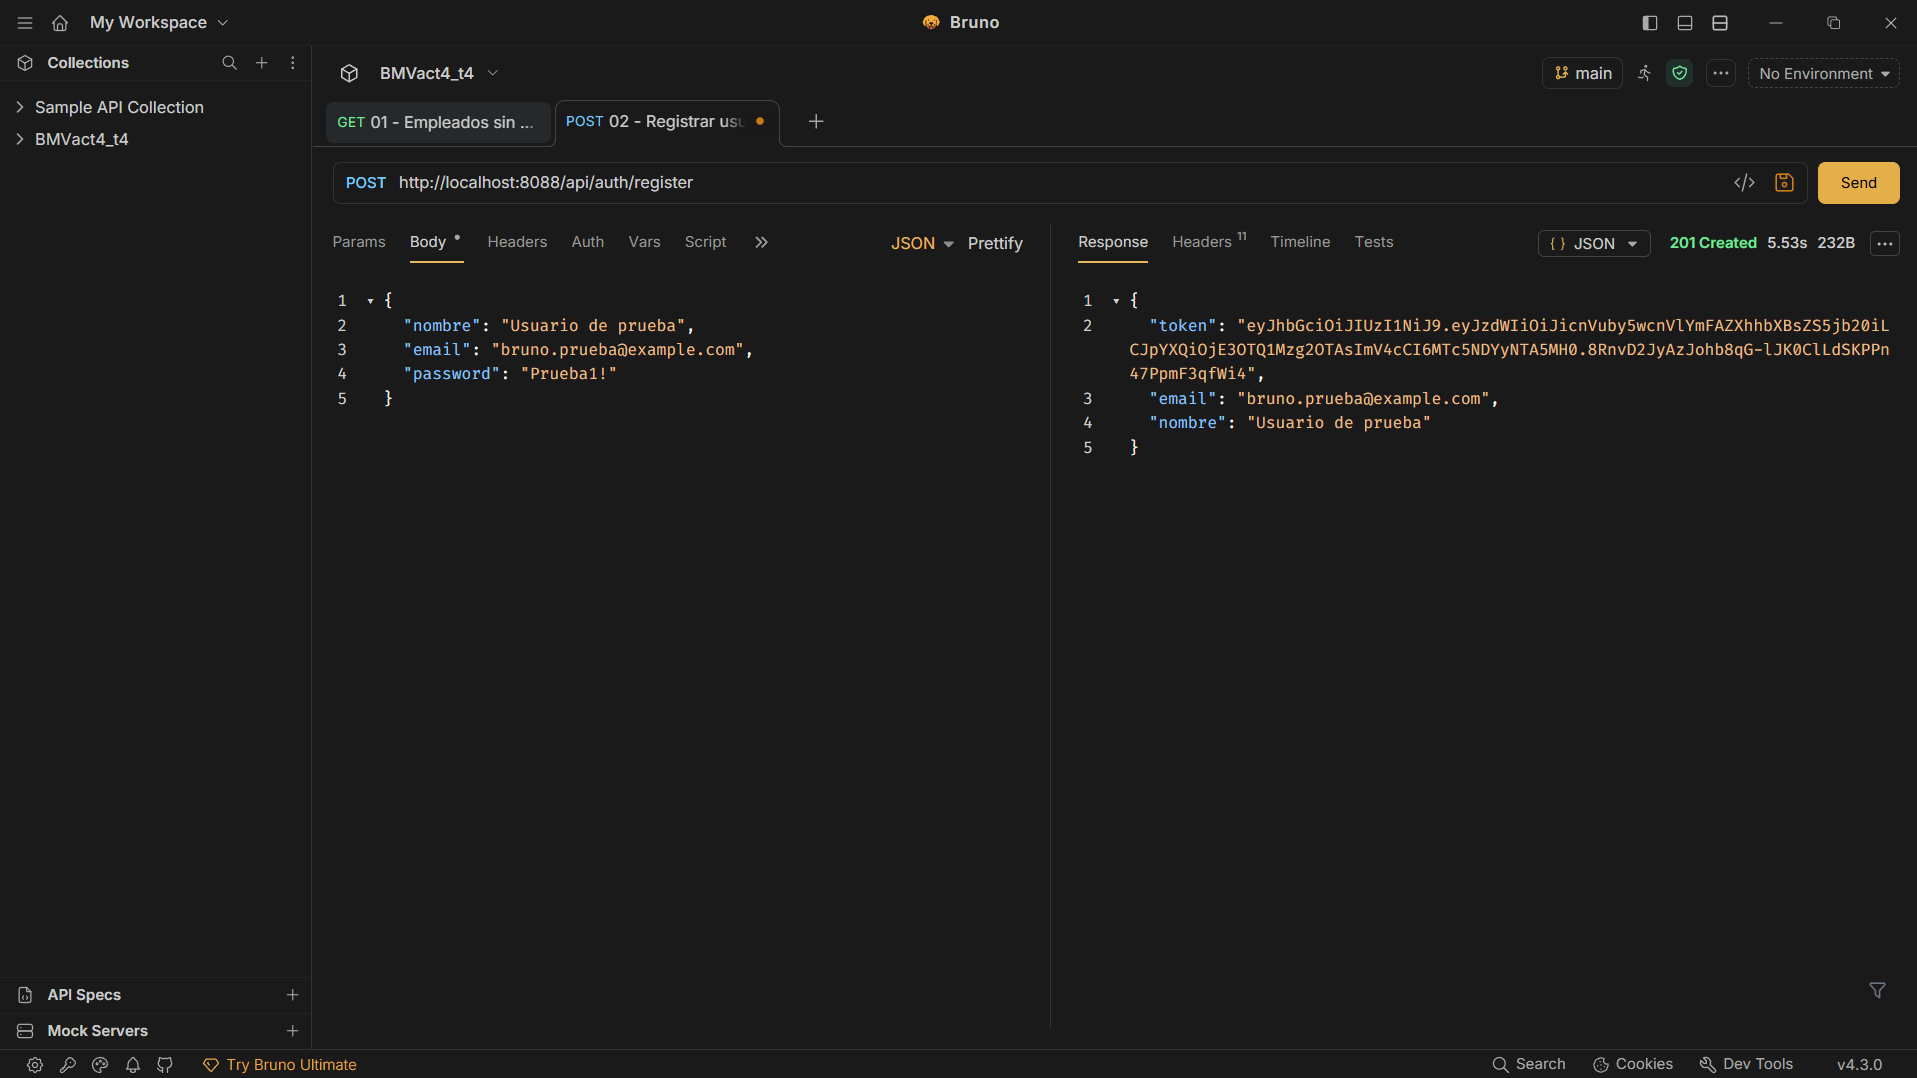
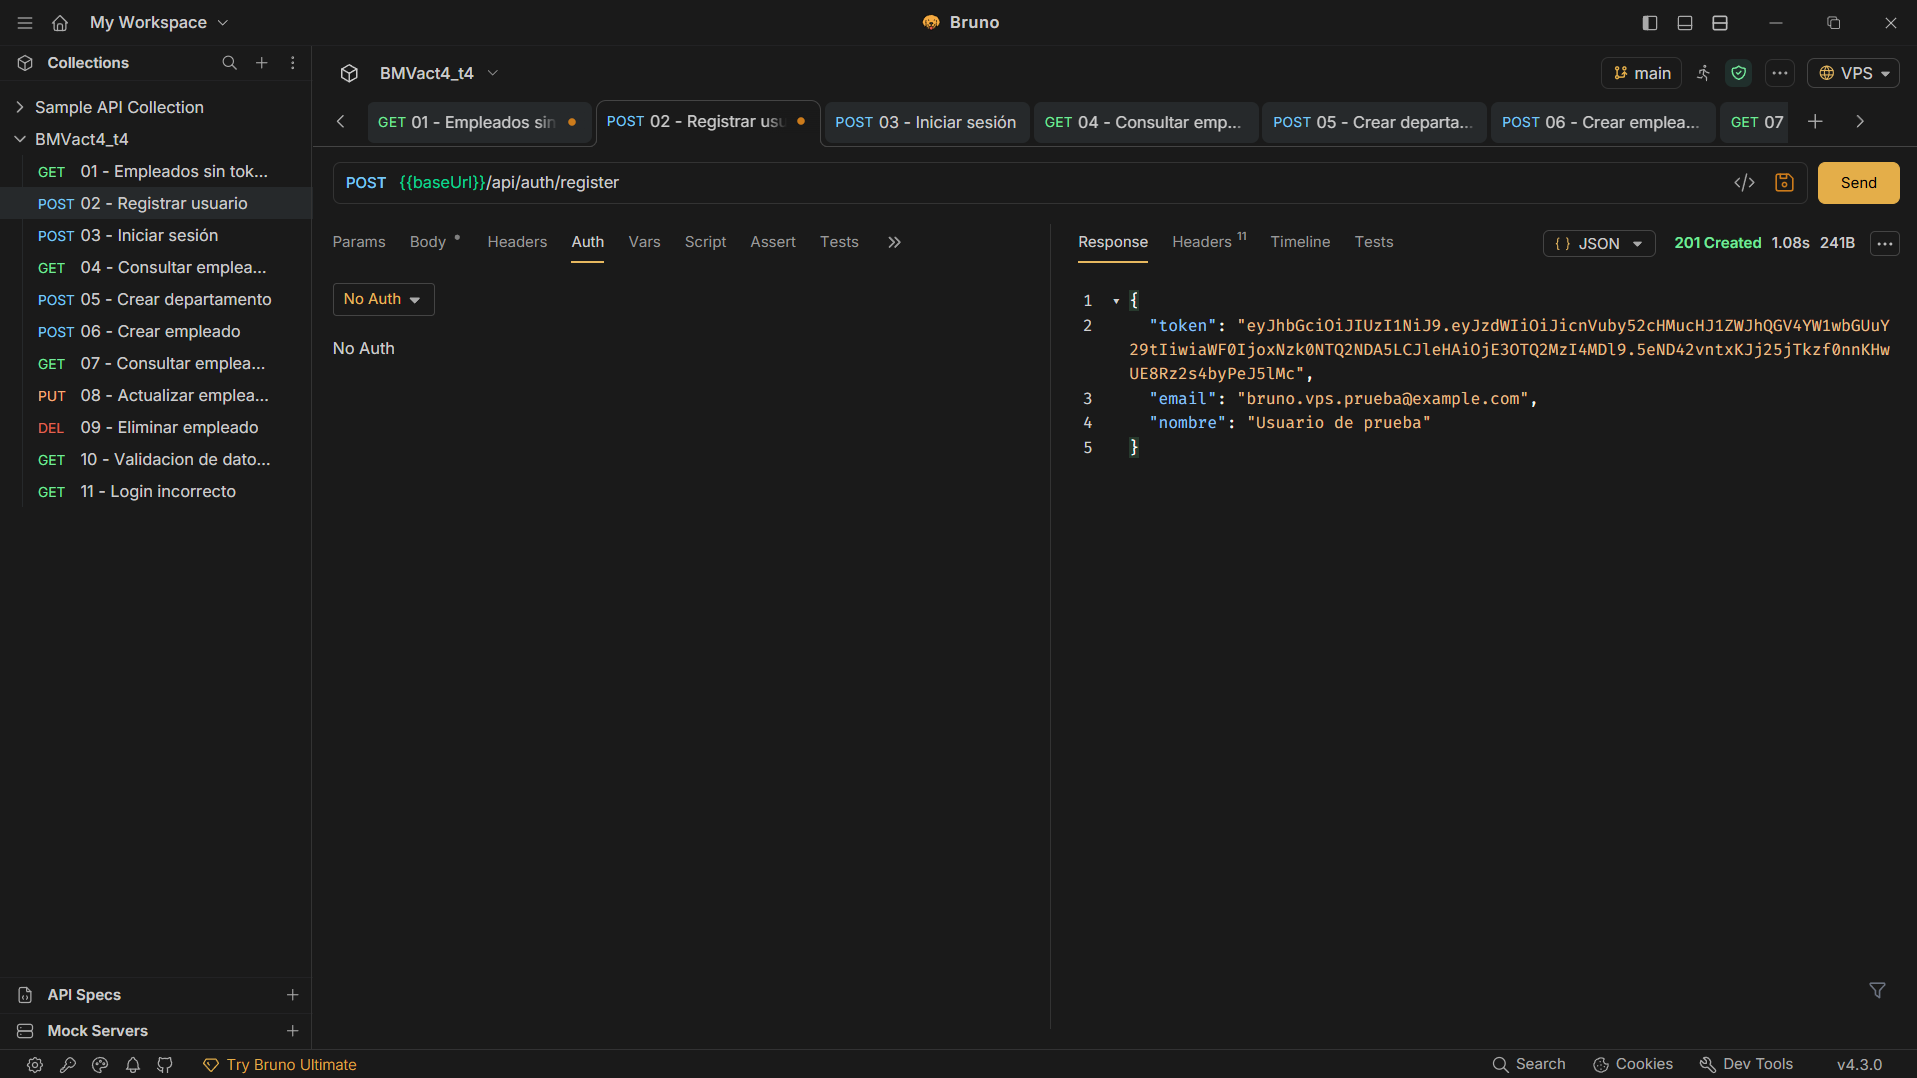
Documentar pruebas finales de API REST JWT en VPS

diff --git a/README.md b/README.md
@@ -1,0 +1,178 @@
+# Actividad 4: API REST con Spring Boot, Spring Security y JWT
+
+## 1. Descripción
+
+Esta actividad consiste en desarrollar una API REST para gestionar empleados y departamentos utilizando Spring Boot, Spring Data JPA y MySQL.
+
+La aplicación implementa autenticación mediante Spring Security y tokens JWT, validación de datos con DTOs y operaciones CRUD protegidas.
+
+A diferencia de la Actividad 3, este proyecto utiliza exclusivamente respuestas JSON, sin vistas Thymeleaf.
+
+## 2. Tecnologías utilizadas
+
+- Java 21
+- Spring Boot 4.1.2
+- Spring Web
+- Spring Data JPA y Hibernate
+- Spring Security
+- JWT
+- Bean Validation
+- MySQL 8
+- Maven
+- Bruno
+- Ubuntu y VPS Contabo
+
+## 3. Base de datos
+
+**Base de datos:** `bd_empleados_act4`
+
+Se utilizan tres entidades:
+
+- Usuario: almacena los datos necesarios para la autenticación y la contraseña protegida mediante hash.
+- Departamento: almacena los departamentos de la empresa.
+- Empleado: almacena los empleados y su relación con un departamento.
+
+La relación entre departamentos y empleados es de uno a muchos. Un departamento puede tener varios empleados y cada empleado pertenece a un departamento.
+
+## 4. Arquitectura
+
+El proyecto está organizado en capas:
+
+- `models`: entidades JPA relacionadas con las tablas de MySQL.
+- `repository`: operaciones de acceso a datos mediante JpaRepository.
+- `services`: lógica de negocio y conversión entre entidades y DTOs.
+- `controllers`: recepción de peticiones HTTP y respuestas JSON.
+- `dto`: estructuras para recibir, validar y devolver datos.
+- `security`: configuración de Spring Security, generación y validación de JWT.
+- `GlobalExceptionHandler`: manejo de errores de validación.
+
+## 5. Endpoints
+
+| Método | Endpoint | Función |
+|---|---|---|
+| POST | `/api/auth/register` | Registrar usuario |
+| POST | `/api/auth/login` | Autenticar y generar JWT |
+| GET | `/api/empleados?page=0&size=10` | Consultar empleados paginados |
+| GET | `/api/empleados/{id}` | Consultar empleado por ID |
+| POST | `/api/empleados` | Crear empleado |
+| PUT | `/api/empleados/{id}` | Actualizar empleado |
+| DELETE | `/api/empleados/{id}` | Eliminar empleado |
+| GET | `/api/departamentos` | Listar departamentos |
+| GET | `/api/departamentos/{id}` | Consultar departamento |
+| POST | `/api/departamentos` | Crear departamento |
+
+Los endpoints del CRUD necesitan un token JWT válido.
+
+## 6. Autenticación y seguridad
+
+El registro y el inicio de sesión son públicos mediante `/api/auth/**`.
+
+Cuando un usuario inicia sesión correctamente, la aplicación genera un JWT firmado. Las peticiones a los endpoints protegidos deben incluir el encabezado:
+
+`Authorization: Bearer <token>`
+
+Spring Security verifica el token y permite o rechaza el acceso según corresponda.
+
+Las contraseñas se almacenan mediante hash y no se devuelven en las respuestas.
+
+## 7. Evidencias de Bruno
+
+### Acceso sin JWT — 401 Unauthorized
+
+![Acceso sin JWT](img/01-SinToken.png)
+
+### Registro de usuario — 201 Created
+
+![Registro](img/02-Registro.png)
+
+### Login con JWT — 200 OK
+
+![Login](img/03-Login.png)
+
+### Consulta paginada — 200 OK
+
+![Consulta](img/04-Consultar.png)
+
+### Creación de departamento — 201 Created
+
+![Departamento](img/05-Departamento.png)
+
+### Creación de empleado — 201 Created
+
+![Crear empleado](img/06-CrearEmpleado.png)
+
+### Consulta de empleado por ID — 200 OK
+
+![Consultar empleado](img/07-ConsultarEmpleado.png)
+
+### Actualización de empleado — 200 OK
+
+![Actualizar empleado](img/08-ActualizarEmpleado.png)
+
+### Eliminación de empleado — 200 OK
+
+![Eliminar empleado](img/09-EliminarEmpleado.png)
+
+### Consulta de empleado eliminado — 404 Not Found
+
+![Empleado no encontrado](img/10-EmpleadoNoEncontrado.png)
+
+### Validación de datos incorrectos — 400 Bad Request
+
+![Validación](img/11-ValidacionIncorrecta.png)
+
+### Inicio de sesión incorrecto — 401 Unauthorized
+
+![Login incorrecto](img/12-LoginIncorrecto.png)
+
+## 8. Colección de Bruno
+
+La carpeta `bruno` contiene las peticiones utilizadas para probar la API.
+
+Incluye solicitudes de registro, login, consultas, creación, actualización, eliminación y pruebas de seguridad.
+
+La colección utiliza variables como `baseUrl`, `testEmail` y `testPassword`. Las contraseñas y los tokens deben configurarse localmente y no incluirse en el repositorio.
+
+## 9. Ejecución y despliegue
+
+La aplicación utiliza el puerto **8088**.
+
+**Servidor VPS:** Contabo con Ubuntu.
+
+**Dirección base:** http://13.140.209.186:8088
+
+**Base de datos:** MySQL en el propio VPS, puerto 3306.
+
+Las credenciales de MySQL y la clave JWT se proporcionan mediante variables de entorno:
+
+- `DB_USER`
+- `DB_PASSWORD`
+- `DB_PORT`
+- `JWT_SECRET`
+
+El proyecto se compila mediante Maven:
+
+```powershell
+.\mvnw.cmd package -DskipTests
+```
+
+En el VPS, el JAR se almacena en `/opt/springboot-8088/`.
+
+El servicio `springboot-act4` permite mantener ejecutándose la aplicación de forma independiente.
+
+Para probar endpoints autenticados desde una computadora local sin exponer credenciales por HTTP público se utiliza un túnel SSH hacia el puerto 8088 del VPS.
+
+## 10. Resultados
+
+Se comprobó el funcionamiento de:
+
+- Registro e inicio de sesión con JWT.
+- Protección de endpoints privados.
+- Operaciones CRUD completas.
+- Paginación de resultados.
+- Relación entre empleados y departamentos.
+- Validación de datos mediante DTOs.
+- Respuestas HTTP adecuadas.
+- Persistencia en MySQL.
+
+La aplicación permite gestionar empleados de forma segura mediante una API REST, reutilizando los conocimientos de las actividades anteriores.
